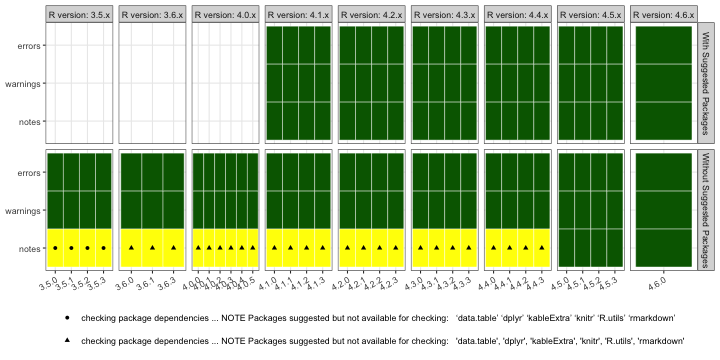
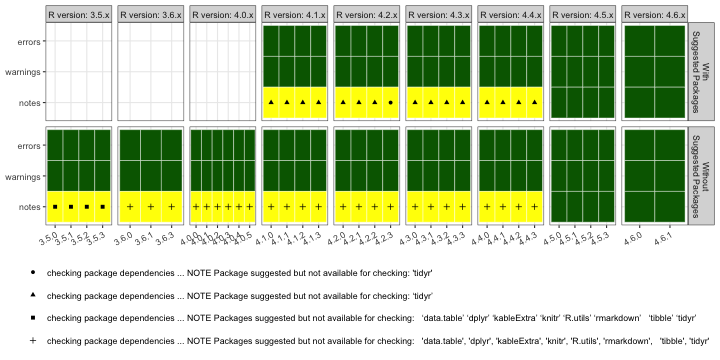
update testing/

diff --git a/testing/README.md b/testing/README.md
@@ -26,23 +26,7 @@ run from this directory.
 # Last Testing Results
 
 
-```
-#> Warning in `[.data.table`(DT, , `:=`(checkdir, NULL)): Tried to assign NULL to
-#> column 'checkdir', but this column does not exist to remove
-#> Error in `data.table::fifelse()`:
-#> ! 'no' is of type list but 'yes' is character. Please make all arguments have the same type.
-#> Error in `data.table::fifelse()`:
-#> ! 'no' is of type list but 'yes' is character. Please make all arguments have the same type.
-#> Error in `data.table::fifelse()`:
-#> ! 'no' is of type list but 'yes' is character. Please make all arguments have the same type.
-#> Error in `setkeyv()`:
-#> ! some columns are not in the data.table: [rversion]
-```
 
 The green tiles indicate no notes, no warning, no error.
 
-
-```
-#> Error in `melt.data.table()`:
-#> ! One or more values in 'id.vars' is invalid.
-```
+![plot of chunk testing-matrix](figure/testing-matrix-1.png)
